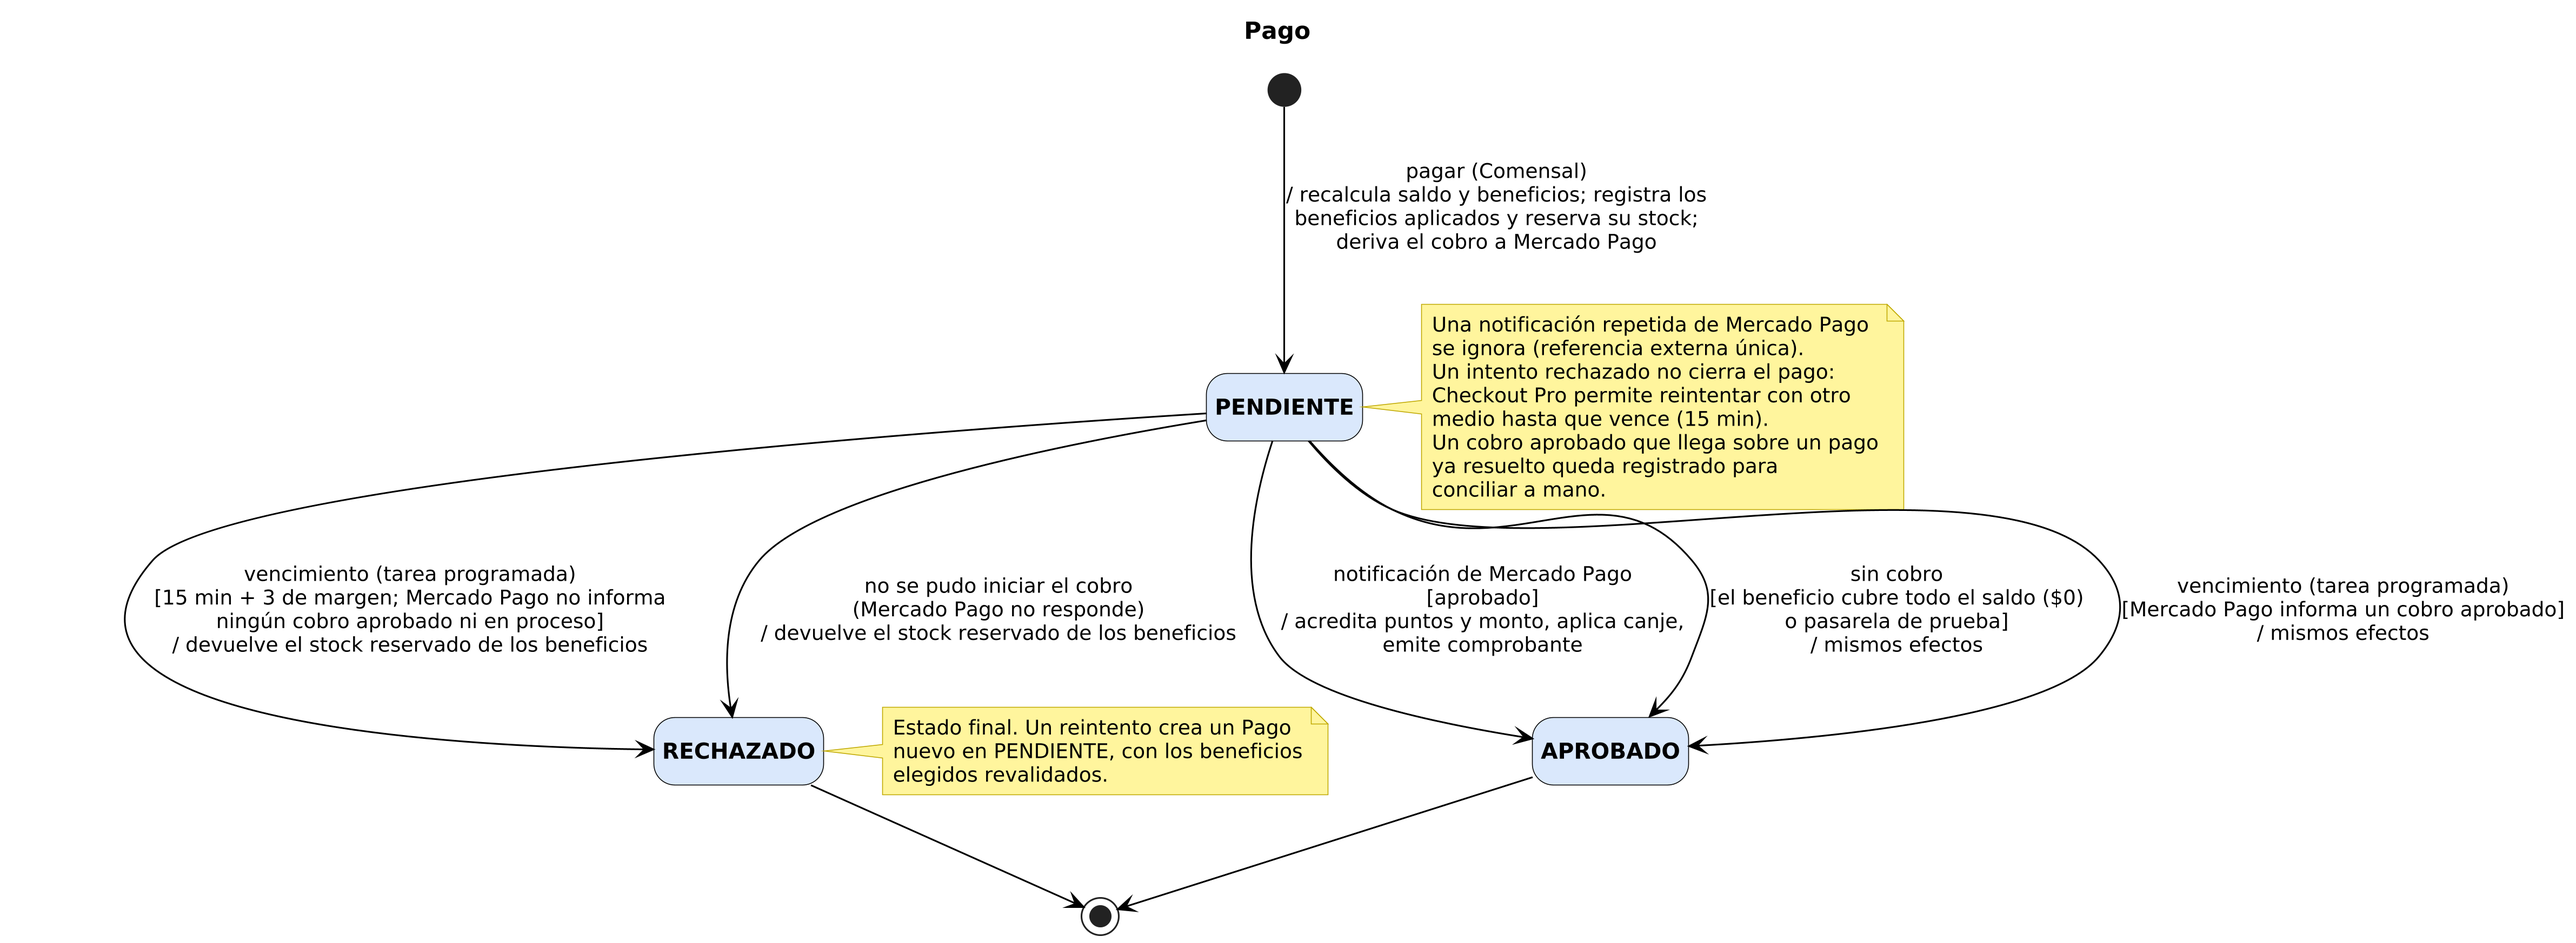
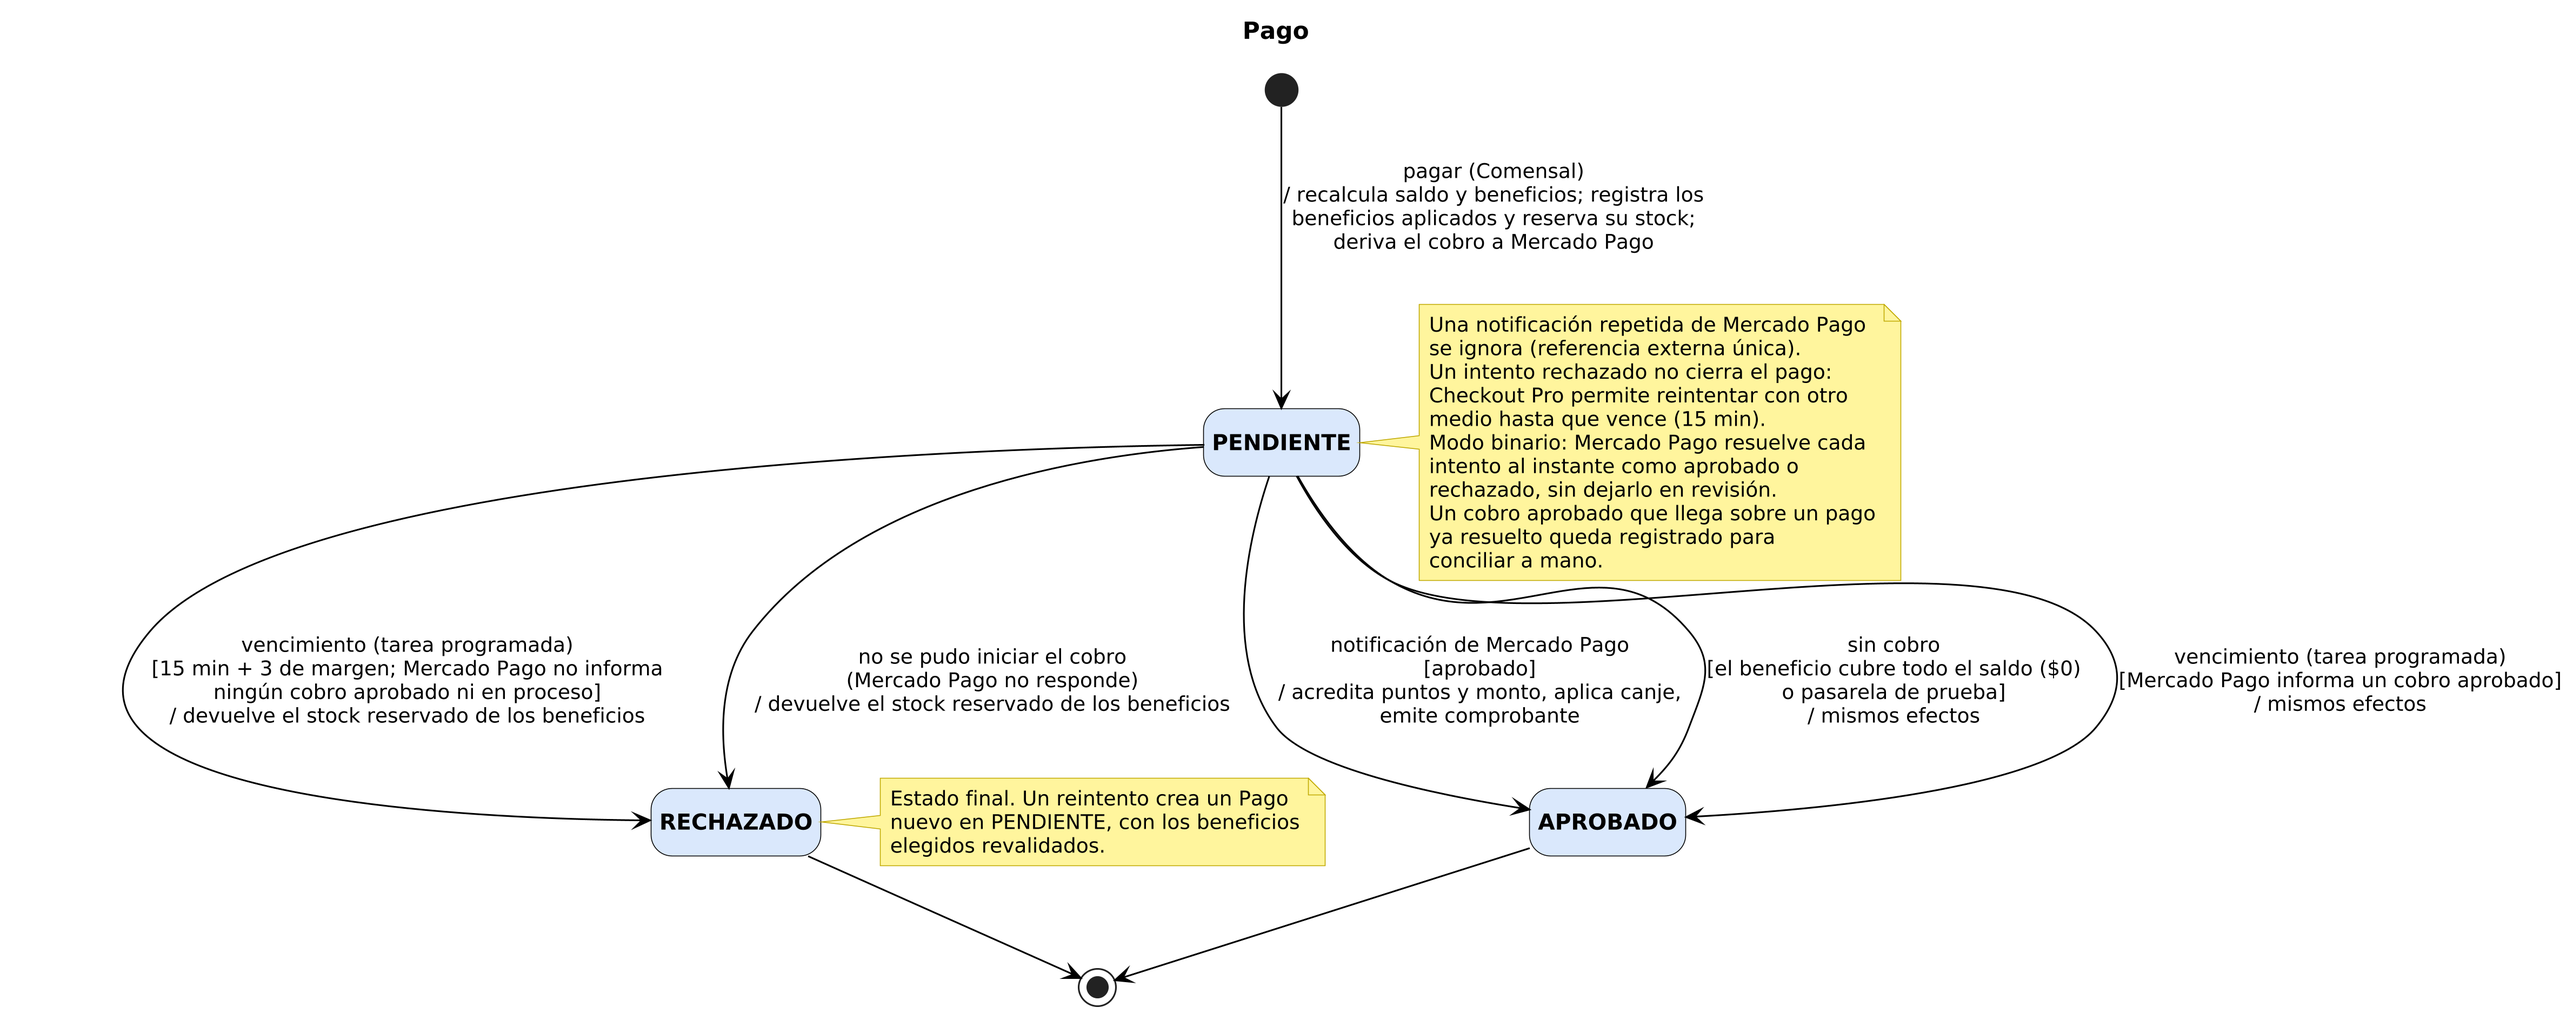
Registrar en los modelos el modo binario de Mercado Pago

diff --git a/docs/modelos/HISTORIAL.md b/docs/modelos/HISTORIAL.md
@@ -53,7 +53,7 @@ Cada versión incluye la imagen (`.png`) y su fuente editable: `.mmd` (Mermaid) 
 | CU-03 — Reservar mesa | v1 | **v1 (05/10):** primera versión en formato Vialia. Participantes: Comensal, vista del mapa, `ReservaController`, `Sucursal`, `Mesa`, `Reserva` y `BusEventos`. Franjas disponibles con `Sucursal.buscarMesaDisponible()`, mapa con `Mesa.estaDisponible()`, alta en `ReservaPendiente` y difusión de `RESERVA_CREADA`. A (asignación automática), B (cancelación) y E1 a E3 como notas. |
 | CU-04 — Realizar pedido | v1 | **v1 (29/09):** versión inicial. Flujo normal con fragmentos opt (2a), alt (5a, 5b, 6a) y transacción del paso 6. Participantes tomados de las vistas de clases 2 y 3. *Menor (05/10):* pasa al formato de secuencia de Vialia: participantes como rectángulos `:Clase` con actor sin pie, barras de activación celestes, marco celeste, mensajes del actor en lenguaje natural y sin numeración. Se quitan los fragmentos alt/opt/loop/ref y la caja de transacción: los ciclos van como notas verdes («por cada…») y los flujos alternativos (2a, 5a, 5b, 6a) y el paso 6 como notas amarillas. Se agregan los mensajes de retorno. Mismos participantes y mismo flujo normal. *Menor (05/10, alineación con clases v2 y DER):* `estaAbierta()`; `insumosNecesarios()` recursivo en lugar de `explotaIntermedios()`; `Existencia.alcanza()` por insumo; `crear(cuenta, sucursal, …)` con estado `PedidoConfirmado`; `MovimientoStock` con `lineaPedido`. Detalle en `Modificaciones-secuencia-CU-04.md`. |
 | CU-05 — Gestionar cola de pedidos | v1 | **v1 (05/10):** primera versión en formato Vialia. Participantes: Staff, vista de la cola, `PedidoController`, `Pedido`, `EstadoPedido`, `Existencia`, `MovimientoStock` y `BusEventos`. Avance de estados con el patrón State y cancelación (A) dibujada con devolución de stock (`Existencia.ingresar()` + `DEVOLUCION_PEDIDO`). B y E1 como notas. |
-| CU-06 — Pagar cuenta con Mercado Pago | v1 | **v1 (05/10):** primera versión en formato Vialia. Participantes: Comensal, vista de la cuenta, `PagoController`, `CuentaMesa`, `CuentaFidelidad`, `Beneficio`, `Pago`, `BeneficioAplicado`, `Comprobante`, `BusEventos` y Mercado Pago (actor). Cálculo de descuentos, pago PENDIENTE, notificación asíncrona, aprobación y paso 9 en una transacción. A a C y E1 a E3 como notas. *Menor (26/10):* los beneficios aplicados se registran y su stock se reserva (`consumirStock()`) junto con el pago PENDIENTE, y ya no en el paso 9; E2 devuelve el stock (`devolverStock()`); el pago PENDIENTE, los beneficios aplicados y la reserva van en una transacción única y el cobro a Mercado Pago, después del commit; E4 nueva: sin stock al confirmar se revierte la transacción; la elegibilidad cuenta desde el inicio de la vigencia o el último canje aprobado, y las recompensas por puntos usan el saldo total. *Menor (28/10):* siempre se paga el saldo total (sin pagos parciales) con un beneficio opcional, uno por cuenta de mesa y no acumulable; un pago de $0 se aprueba sin Mercado Pago; E2: un intento rechazado no cierra el pago y el rechazo lo decide el vencimiento a los 15 min si Mercado Pago no informa un cobro aprobado; se quita la nota B (medio de pago guardado, que pasa a expansiones futuras). *Menor (28/10, prueba de Mercado Pago):* el comensal ya no elige el medio en la app: lo elige en Mercado Pago (tarjeta o dinero en cuenta) y se registra al aprobarse. |
+| CU-06 — Pagar cuenta con Mercado Pago | v1 | **v1 (05/10):** primera versión en formato Vialia. Participantes: Comensal, vista de la cuenta, `PagoController`, `CuentaMesa`, `CuentaFidelidad`, `Beneficio`, `Pago`, `BeneficioAplicado`, `Comprobante`, `BusEventos` y Mercado Pago (actor). Cálculo de descuentos, pago PENDIENTE, notificación asíncrona, aprobación y paso 9 en una transacción. A a C y E1 a E3 como notas. *Menor (26/10):* los beneficios aplicados se registran y su stock se reserva (`consumirStock()`) junto con el pago PENDIENTE, y ya no en el paso 9; E2 devuelve el stock (`devolverStock()`); el pago PENDIENTE, los beneficios aplicados y la reserva van en una transacción única y el cobro a Mercado Pago, después del commit; E4 nueva: sin stock al confirmar se revierte la transacción; la elegibilidad cuenta desde el inicio de la vigencia o el último canje aprobado, y las recompensas por puntos usan el saldo total. *Menor (28/10):* siempre se paga el saldo total (sin pagos parciales) con un beneficio opcional, uno por cuenta de mesa y no acumulable; un pago de $0 se aprueba sin Mercado Pago; E2: un intento rechazado no cierra el pago y el rechazo lo decide el vencimiento a los 15 min si Mercado Pago no informa un cobro aprobado; se quita la nota B (medio de pago guardado, que pasa a expansiones futuras). *Menor (28/10, prueba de Mercado Pago):* el comensal ya no elige el medio en la app: lo elige en Mercado Pago (tarjeta o dinero en cuenta) y se registra al aprobarse. *Menor (29/10, modo binario):* nota en Mercado Pago: cada intento se resuelve al instante como aprobado o rechazado. |
 | CU-07 — Configurar receta | v1 | **v1 (05/10):** primera versión en formato Vialia. Participantes: Jefe de cocina, vista de receta, `RecetaController`, `ItemMenu`, `RecetaBuilder`, `ComponenteInventario` y `Receta`. Armado con el Builder, control de ciclos con `contiene()` y costo con `costoTotal()`. A y E1 a E3 como notas. |
 | CU-08 — Registrar movimientos de stock | v1 | **v1 (05/10):** primera versión en formato Vialia. Participantes: usuario con permiso de stock, vista de stock, `StockController`, `Insumo`, `Existencia` y `MovimientoStock`. Flujo de ingreso (`actualizarCosto()` + `ingresar()`); merma, A (merma de intermedio), B (`ajustar()`), E1 y E2 como notas. |
 | CU-09 — Consultar asistente de apertura | v1 | **v1 (05/10):** primera versión en formato Vialia. Participantes: Gerente, vista del asistente, `AperturaController`, `AsistenteApertura`, `EstrategiaPronostico`, `Verificador`, `EstrategiaAsignacionTurnos`, `PlanificacionTurnos` y `BusEventos`. Pronóstico por día y franja, verificadores, asignación de turnos con faltantes y confirmación con `PLANIFICACION_CONFIRMADA`. A, B, E1 y E2 como notas. |
@@ -81,7 +81,7 @@ Agregado propio: Vialia no incluye diagramas de estado. Máquinas de estado UML 
 |---|---|---|
 | Reserva | v1 | **v1 (05/10):** PENDIENTE, ACTIVA, FINALIZADA, CANCELADA y VENCIDA. Cancelación solo antes del inicio de la franja; vencimiento por tarea programada; cierre de mesa con confirmación si hay saldo pendiente. Nota: una cuenta con total $0 no registra visita. *Menor (27/10):* el staff también puede cancelar una reserva PENDIENTE, hasta el fin de la tolerancia de llegada inclusive (después vence). *Menor (28/10):* `PENDIENTE → ACTIVA` exige que el comensal no tenga otra mesa abierta, en cualquier sucursal. *Menor (28/10, revisión):* el cierre se bloquea con un pago en curso y pide confirmación si Mercado Pago sigue revisando un pago ya vencido. |
 | Pedido | v1 | **v1 (05/10):** CONFIRMADO, EN_PREPARACION, LISTO, ENTREGADO y CANCELADO. Permisos «preparar pedidos» (hasta LISTO y cancelar) y «entregar pedidos» (LISTO → ENTREGADO). Cancelación solo desde CONFIRMADO, con devolución de stock. |
-| Pago | v1 | **v1 (05/10):** PENDIENTE, APROBADO y RECHAZADO, disparados por la notificación de Mercado Pago. RECHAZADO es final: un reintento crea un Pago nuevo con los beneficios revalidados. Notificación repetida ignorada (referencia externa única). *Menor (26/10):* el stock de los beneficios se reserva al pasar a PENDIENTE (antes se descontaba al aprobarse) y se devuelve al pasar a RECHAZADO. *Menor (28/10):* `PENDIENTE → RECHAZADO` pasa a darse por vencimiento (tarea programada, 15 min) si Mercado Pago no informa ningún cobro aprobado ni en proceso; un intento rechazado ya no cierra el pago, porque Checkout Pro permite reintentar con otro medio dentro de la misma preferencia. *Menor (28/10, revisión):* PENDIENTE → APROBADO también sin cobro (pago de $0 o pasarela de prueba) y por la tarea de vencimiento si Mercado Pago informa un cobro aprobado; PENDIENTE → RECHAZADO también si no se pudo iniciar el cobro; el vencimiento rechaza con 3 minutos de margen; un cobro aprobado sobre un pago ya resuelto queda para conciliar. |
+| Pago | v1 | **v1 (05/10):** PENDIENTE, APROBADO y RECHAZADO, disparados por la notificación de Mercado Pago. RECHAZADO es final: un reintento crea un Pago nuevo con los beneficios revalidados. Notificación repetida ignorada (referencia externa única). *Menor (26/10):* el stock de los beneficios se reserva al pasar a PENDIENTE (antes se descontaba al aprobarse) y se devuelve al pasar a RECHAZADO. *Menor (28/10):* `PENDIENTE → RECHAZADO` pasa a darse por vencimiento (tarea programada, 15 min) si Mercado Pago no informa ningún cobro aprobado ni en proceso; un intento rechazado ya no cierra el pago, porque Checkout Pro permite reintentar con otro medio dentro de la misma preferencia. *Menor (28/10, revisión):* PENDIENTE → APROBADO también sin cobro (pago de $0 o pasarela de prueba) y por la tarea de vencimiento si Mercado Pago informa un cobro aprobado; PENDIENTE → RECHAZADO también si no se pudo iniciar el cobro; el vencimiento rechaza con 3 minutos de margen; un cobro aprobado sobre un pago ya resuelto queda para conciliar. *Menor (29/10, modo binario):* nota en PENDIENTE: Mercado Pago resuelve cada intento al instante como aprobado o rechazado, sin dejarlo en revisión. |
 | Planificación de turnos | v1 | **v1 (05/10):** BORRADOR (regenerable) y CONFIRMADA (no editable en esta versión). |
 
 ## Wireframes
